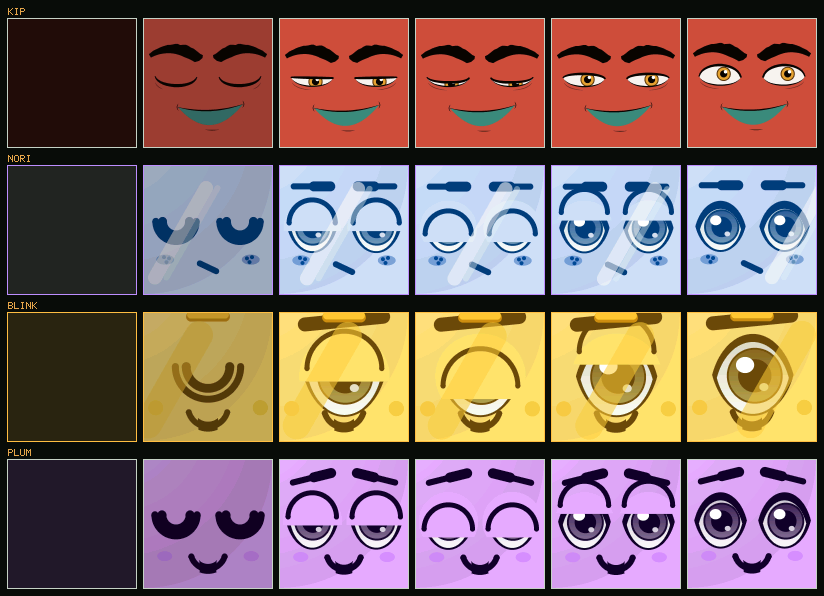
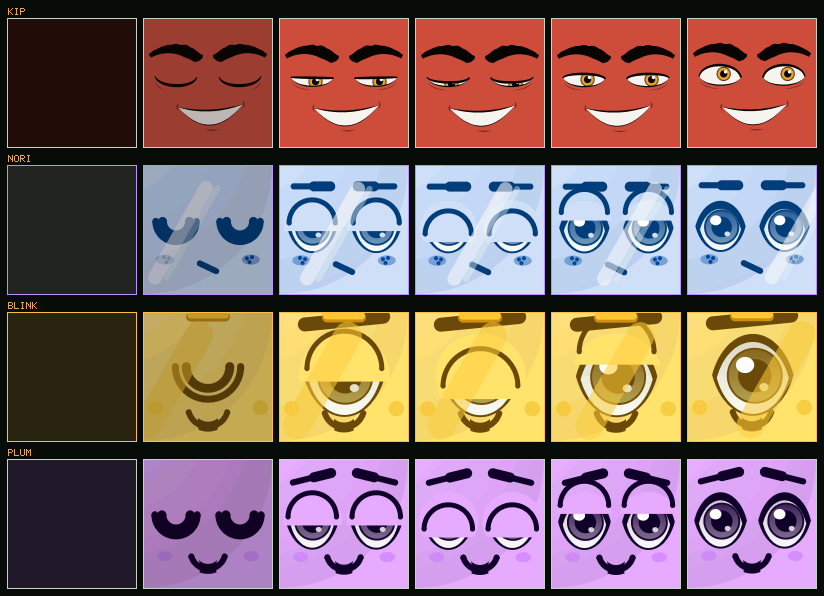
La sonrisa de Kip, en blanco
Las sonrisas abiertas de contento (feliz 5 y 10) y la del mimo eran una
media luna teal, y en la pantalla se leían como una mancha verde. Ahora
son blancas con su contorno de tinta, como la sonrisa con dientes del
cuadro 9: la misma forma, con el estilo RK_KIP_BOCA_DIENTES. El teal queda
para la boca plana de "desconectado" y la de abajo del agua, que no son
sonrisas.

golden.h cambia en las tres filas de Kip contento, una por piel.

Claude-Session: https://claude.ai/code/session_01H8MdqNRA93aKttnpCFj7rU

diff --git a/firmware/art/kip.c b/firmware/art/kip.c
@@ -190,8 +190,8 @@ static const rk_kip_ceja_t CEJAS[C_COUNT] = {
 };
 
 enum {
-    B_TEAL_GRANDE = 0, /* feliz 10                                          */
-    B_TEAL_GUINO,      /* feliz 5                                           */
+    B_SONRISA_GRANDE = 0, /* feliz 10, en blanco                             */
+    B_SONRISA_GUINO,      /* feliz 5, en blanco                              */
     B_SONRISA,         /* feliz 8                                           */
     B_SOBRADOR,        /* feliz 3 y 4: sube de un lado                      */
     B_DIENTES,         /* feliz 9                                           */
@@ -233,8 +233,8 @@ enum {
 
 static const rk_kip_boca_t BOCAS[B_COUNT] = {
 /*                     est ancho curva abre ladeo  dx   dy lengua labio comis */
-/* TEAL_GRANDE    */ { TEA, 255,   95, 115,   12,  20,   0,    0,  700,  900 },
-/* TEAL_GUINO     */ { TEA, 250,   95,  90,   20,  25,   0,    0,  700,  900 },
+/* SONRISA_GRANDE */ { DIE, 255,   95, 115,   12,  20,   0,    0,  700,  900 },
+/* SONRISA_GUINO  */ { DIE, 250,   95,  90,   20,  25,   0,    0,  700,  900 },
 /* SONRISA        */ { LIN, 165,   42,   0,    0,   0,   0,    0,  800,  600 },
 /* SOBRADOR       */ { LIN, 200,   55,   0,   35,  25,   0,    0,  800,  750 },
 /* DIENTES        */ { DIE, 205,   70,  60,  -25, -10,  10,    0,  800,  800 },
@@ -261,7 +261,7 @@ static const rk_kip_boca_t BOCAS[B_COUNT] = {
 /* MUECA_DIENTES  */ { DIE, 175,  -45,  48,   10,   0, -10,    0,    0,  900 },
 /* HMM            */ { LIN,  70,  -12,   0,   22,  45, -20,    0,    0,  500 },
 /* HMM_OTRO       */ { LIN,  70,  -12,   0,  -22, -45, -20,    0,    0,  500 },
-/* MIMO           */ { TEA, 250,  100, 100,    0,   0,   0,    0,  700,  900 },
+/* MIMO           */ { DIE, 250,  100, 100,    0,   0,   0,    0,  700,  900 },
 };
 
 #undef LIN
@@ -297,23 +297,28 @@ typedef struct {
 #define N(a) ((uint8_t)(sizeof(a) / sizeof((a)[0])))
 
 /* CONTENTO — la lámina de feliz, en el orden en que la numeró: sereno, el
- * costado canchero, el guiño con la sonrisa teal, el ojo que se vuelve a
- * abrir, la sonrisa pícara con dientes y de vuelta a la sonrisa grande. */
+ * costado canchero, el guiño con la sonrisa grande, el ojo que se vuelve a
+ * abrir, la sonrisa pícara con dientes y de vuelta a la sonrisa grande.
+ *
+ * Las sonrisas abiertas van en BLANCO. En la lámina las de los cuadros 5 y
+ * 10 son teal, pero en la pantalla se leían como una mancha verde: se
+ * decidió que toda sonrisa abierta sea blanca, como la del cuadro 9. El teal
+ * queda para la boca plana de "desconectado" y la de abajo del agua. */
 static const clave_t K_FELIZ[] = {
-    {    0, O_CONTENTO, O_CONTENTO, C_ARCO,   C_ARCO,   B_TEAL_GRANDE,    0,    0 },
-    { 1400, O_CONTENTO, O_CONTENTO, C_ARCO,   C_ARCO,   B_TEAL_GRANDE,  350, -150 },
-    { 2600, O_CONTENTO, O_CONTENTO, C_ARCO,   C_ARCO,   B_TEAL_GRANDE,  350, -150 },
+    {    0, O_CONTENTO, O_CONTENTO, C_ARCO,   C_ARCO,   B_SONRISA_GRANDE,    0,    0 },
+    { 1400, O_CONTENTO, O_CONTENTO, C_ARCO,   C_ARCO,   B_SONRISA_GRANDE,  350, -150 },
+    { 2600, O_CONTENTO, O_CONTENTO, C_ARCO,   C_ARCO,   B_SONRISA_GRANDE,  350, -150 },
     { 3000, O_PLANO,    O_PLANO,    C_RECTA,  C_RECTA,  B_SONRISA,        0,  100 },
     { 4100, O_PLANO,    O_PLANO,    C_RECTA,  C_RECTA,  B_SONRISA,        0,  100 },
     { 4500, O_CANCHERO, O_CANCHERO, C_ARCO,   C_ARCO,   B_SOBRADOR,    -500,  200 },
     { 5300, O_CANCHERO, O_CANCHERO, C_ARCO,   C_ARCO,   B_SOBRADOR,    -500,  200 },
     { 5550, O_GUINO,    O_ABIERTO,  C_BAJA,   C_ALZADA, B_SOBRADOR,       0,    0 },
-    { 5800, O_GUINO,    O_ABIERTO,  C_BAJA,   C_ALZADA, B_TEAL_GUINO,     0,    0 },
-    { 6900, O_GUINO,    O_ABIERTO,  C_BAJA,   C_ALZADA, B_TEAL_GUINO,     0,    0 },
-    { 7150, O_ASOMA,    O_ABIERTO,  C_ARCO,   C_ALZADA, B_TEAL_GUINO,     0,    0 },
+    { 5800, O_GUINO,    O_ABIERTO,  C_BAJA,   C_ALZADA, B_SONRISA_GUINO,     0,    0 },
+    { 6900, O_GUINO,    O_ABIERTO,  C_BAJA,   C_ALZADA, B_SONRISA_GUINO,     0,    0 },
+    { 7150, O_ASOMA,    O_ABIERTO,  C_ARCO,   C_ALZADA, B_SONRISA_GUINO,     0,    0 },
     { 7450, O_GRANDE,   O_GRANDE,   C_PICARA, C_PICARA, B_DIENTES,        0,    0 },
     { 9000, O_GRANDE,   O_GRANDE,   C_PICARA, C_PICARA, B_DIENTES,     -250,    0 },
-    { 9450, O_CONTENTO, O_CONTENTO, C_ARCO,   C_ARCO,   B_TEAL_GRANDE,    0,    0 },
+    { 9450, O_CONTENTO, O_CONTENTO, C_ARCO,   C_ARCO,   B_SONRISA_GRANDE,    0,    0 },
 };
 static const uint16_t P_FELIZ[] = { 900, 3600, 10300 };
 static const uint16_t S_FELIZ[] = { 2000, 8200, 11000 };
@@ -687,8 +692,8 @@ static void pose_de_animo(rk_kip_pose_t *o, rk_mood_t mood, uint32_t t)
     o->mira_y = (int16_t)(o->mira_y + rk_sin8((uint8_t)(t / 97u + 40u)) * 25 / 127);
 }
 
-/* Lo que pone cuando lo acarician: ^ ^, las cejas arriba y la sonrisa teal
- * grande. Los efectos se van: acariciado no se ahoga. */
+/* Lo que pone cuando lo acarician: ^ ^, las cejas arriba y la sonrisa
+ * blanca grande. Los efectos se van: acariciado no se ahoga. */
 static void pose_mimo(rk_kip_pose_t *o)
 {
     static const int16_t nada[RK_KIP_FX_COUNT] = { 0 };

diff --git a/firmware/test/test_kip.c b/firmware/test/test_kip.c
@@ -206,7 +206,7 @@ static void test_cejas_saltonas(void)
 
 /* --------------------------------------------- la lámina, en la pista --- */
 typedef struct {
-    bool guino, teal, dientes, linea, grito_grande, lengua, o, beso, onda, rojo;
+    bool guino, grande, dientes, linea, grito_grande, lengua, o, beso, onda, rojo;
     bool siempre_agua, siempre_sumergida, siempre_mira_abajo, siempre_cerrados;
     bool cerrado_alguna_vez;
     int abre_min, abre_max, mira_x_min, mira_x_max, mira_y_max, a_max, rendija_max;
@@ -233,7 +233,7 @@ static void recorrer(recorrido_t *r, rk_mood_t m)
         if (cerrado(&p.ojo[0]) != cerrado(&p.ojo[1])) { r->guino = true; }
         if (cerrado(&p.ojo[0]) || cerrado(&p.ojo[1])) { r->cerrado_alguna_vez = true; }
         if (!cerrado(&p.ojo[0]) || !cerrado(&p.ojo[1])) { r->siempre_cerrados = false; }
-        if (b->estilo == RK_KIP_BOCA_TEAL && b->abre >= 80) { r->teal = true; }
+        if (b->estilo == RK_KIP_BOCA_DIENTES && b->abre >= 80) { r->grande = true; }
         if (b->estilo == RK_KIP_BOCA_DIENTES && b->abre >= 40) { r->dientes = true; }
         if (b->estilo == RK_KIP_BOCA_LINEA) { r->linea = true; }
         if (b->estilo == RK_KIP_BOCA_GRITO && b->abre >= 180) { r->grito_grande = true; }
@@ -269,7 +269,7 @@ static void test_la_lamina_esta_en_la_pista(void)
     /* Feliz, cuadros 1 a 10. */
     recorrer(&r, RK_MOOD_HAPPY);
     CHECK_TRUE("contento: guina un ojo (feliz 4 y 5)", r.guino);
-    CHECK_TRUE("contento: la sonrisa teal (feliz 5 y 10)", r.teal);
+    CHECK_TRUE("contento: la sonrisa grande, en blanco (feliz 5 y 10)", r.grande);
     CHECK_TRUE("contento: la sonrisa con dientes (feliz 9)", r.dientes);
     CHECK_TRUE("contento: la sonrisa de linea (feliz 3, 4 y 8)", r.linea);
 
@@ -363,7 +363,7 @@ static void test_escena(void)
     rk_kip_pose(&q, &e);
     CHECK_TRUE("acariciado cierra los ojos en ^ ^",
                cerrado(&q.ojo[0]) && cerrado(&q.ojo[1]) && q.ojo[0].b < 0 && q.ojo[1].b < 0);
-    CHECK_INT("y sonrie en teal", RK_KIP_BOCA_TEAL, q.boca.estilo);
+    CHECK_INT("y sonrie en blanco", RK_KIP_BOCA_DIENTES, q.boca.estilo);
     CHECK_INT("y se le va la sed", 0, q.fx[RK_KIP_FX_SED]);
     e.mimo = 250u;
     rk_kip_pose(&p, &e);

diff --git a/firmware/test/golden.h b/firmware/test/golden.h
@@ -22,7 +22,7 @@ static const rk_golden_t RK_GOLDEN[] = {
     { 0, 0, RK_MOOD_UNKNOWN     ,  1200u, 0x93897AC9U },
     { 0, 0, RK_MOOD_OFFLINE     ,  1200u, 0x977DE4F2U },
     { 0, 0, RK_MOOD_SLEEPING    ,  1200u, 0x4685563AU },
-    { 0, 0, RK_MOOD_HAPPY       ,  1200u, 0x9125522CU },
+    { 0, 0, RK_MOOD_HAPPY       ,  1200u, 0x8AAA494FU },
     { 0, 0, RK_MOOD_THIRSTY     ,  1200u, 0x40CC2BD9U },
     { 0, 0, RK_MOOD_DROWNING    ,  1200u, 0x19363B37U },
     { 0, 0, RK_MOOD_COLD        ,  1200u, 0x04593F9AU },
@@ -34,7 +34,7 @@ static const rk_golden_t RK_GOLDEN[] = {
     { 0, 1, RK_MOOD_UNKNOWN     ,  1200u, 0x7A6D8A7AU },
     { 0, 1, RK_MOOD_OFFLINE     ,  1200u, 0xEC1987C8U },
     { 0, 1, RK_MOOD_SLEEPING    ,  1200u, 0xFBF48B2BU },
-    { 0, 1, RK_MOOD_HAPPY       ,  1200u, 0x2B753B6EU },
+    { 0, 1, RK_MOOD_HAPPY       ,  1200u, 0xD21E7FA9U },
     { 0, 1, RK_MOOD_THIRSTY     ,  1200u, 0xA15812F6U },
     { 0, 1, RK_MOOD_DROWNING    ,  1200u, 0xBA21292CU },
     { 0, 1, RK_MOOD_COLD        ,  1200u, 0x6CBFDAF3U },
@@ -46,7 +46,7 @@ static const rk_golden_t RK_GOLDEN[] = {
     { 0, 2, RK_MOOD_UNKNOWN     ,  1200u, 0x901458A1U },
     { 0, 2, RK_MOOD_OFFLINE     ,  1200u, 0xF4634E6FU },
     { 0, 2, RK_MOOD_SLEEPING    ,  1200u, 0xF6E3D65CU },
-    { 0, 2, RK_MOOD_HAPPY       ,  1200u, 0x1917139DU },
+    { 0, 2, RK_MOOD_HAPPY       ,  1200u, 0xA5964E7AU },
     { 0, 2, RK_MOOD_THIRSTY     ,  1200u, 0x8DF31F16U },
     { 0, 2, RK_MOOD_DROWNING    ,  1200u, 0xF2A2B35EU },
     { 0, 2, RK_MOOD_COLD        ,  1200u, 0x46A46987U },

diff --git a/firmware/core/persona.c b/firmware/core/persona.c
@@ -34,7 +34,7 @@ const rk_persona_t rk_persona_table[] = {
     "Si sale mal, por lo menos sale rápido.",
     /* EL PILOTO AUDAZ. Rojo entero, con cejas negras tupidas que saltan
      * —con esas cejas, medio grado de inclinación ya es una actitud—, ojos
-     * blancos grandes de iris ámbar y la boca teal. Así lo dibujó Rocío, y
+     * blancos grandes de iris ámbar y la sonrisa blanca. Así lo dibujó Rocío, y
      * su cara ya no sale del rig: sale de su lámina (art/kip.c). De esta
      * fila usa las medidas —dónde van los ojos, qué tan grandes, dónde van
      * las cejas y la boca— y los colores; la familia, el brillo, la ceja,

diff --git a/firmware/art/kip.h b/firmware/art/kip.h
@@ -16,7 +16,7 @@
  *   - LOS RASGOS SON LOS DE LA LÁMINA. Cuerpo rojo plano, cejas negras
  *     tupidas que saltan, ojos blancos con un contorno de tinta más grueso
  *     arriba que abajo, iris ámbar con su aro, su pupila y un brillo, y la
- *     boca teal. Todo sale de trazos de pincel: contornos que engordan en
+ *     sonrisa blanca. Todo sale de trazos de pincel: contornos que engordan en
  *     el medio y se afinan en la punta (gfx/aa.h, rk_aa_poligono).
  *
  *   - LAS POSES SON LAS DE LA LÁMINA. Cada ojo, cada ceja y cada boca que

diff --git a/firmware/core/persona.h b/firmware/core/persona.h
@@ -23,7 +23,7 @@
  * EL ELENCO
  *
  *   kip    el piloto audaz: rojo, cresta de tres rulos, cejas negras
- *          tupidas que saltan, ojos blancos de iris ámbar y la boca teal.
+ *          tupidas que saltan, ojos blancos de iris ámbar y la sonrisa blanca.
  *          Impetuoso y dramático. Ya tiene lámina de Rocío: su cara la
  *          dibuja art/kip.c, no el rig.
  *   nori   la crítica sofisticada: corte bob, pecas, ojos almendrados de

diff --git a/docs/testing.md b/docs/testing.md
@@ -209,8 +209,8 @@ mueve, sin mirar un pixel:
 - **La boca cambia de forma sólo cerrada**, en los ciclos y en las
   transiciones: una boca teal no se vuelve una con dientes a mitad de camino.
 - **Las cejas saltan**: al subir se pasan de largo y vuelven.
-- **La lámina está en la pista.** Contento guiña y sonríe en teal y con
-  dientes; ahogándose, el agua le llega a los ojos todo el ciclo, boquea y
+- **La lámina está en la pista.** Contento guiña y sonríe grande, en
+  blanco; ahogándose, el agua le llega a los ojos todo el ciclo, boquea y
   mira el agua; con calor saca la lengua, jadea, sopla, tira el beso y hace
   la mueca ondulada; a oscuras busca la luz arriba y a los costados; con el
   aire seco mira de reojo con los ojos en rendija. Si alguien cambia una
